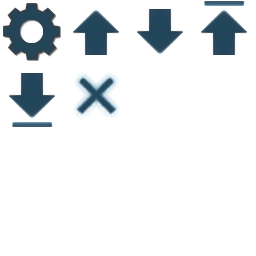
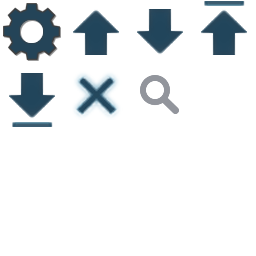
design fixes

Changed region(s): [[0.5312, 0.2812, 0.7188, 0.4688]]

diff --git a/web/view/theme/spg/assets/spg-theme.css b/web/view/theme/spg/assets/spg-theme.css
@@ -65,16 +65,19 @@ body.layout-full > article.themed {
 
 .spg-theme .menu-search {
     /* float: right; */
-    padding: 11px 16px;
-    margin: 4px 1px;
+    padding: 8px 16px 8px 24px;
+    margin: 7px 1px;
     border-radius: 8px;
     border: 1px inset;
     opacity: 0.7;
     transition: opacity 1s, max-width 1.4s ease-out;
     transition-delay: 0.8s;
-    max-width: 6.4em;
+    max-width: 3.2em;
     z-index: 99;
     position: relative;
+    background: url('img/icons/btn_search.png') no-repeat #FFF;
+    background-size: 24px;
+    background-position: 1px 4px;
 }
 
 .spg-theme .menu-search:focus,

diff --git a/web/view/theme/spg/spgviewtheme.class.php b/web/view/theme/spg/spgviewtheme.class.php
@@ -116,7 +116,7 @@ class SPGViewTheme extends AbstractViewTheme
             </a>
 
             <form action="order" style="display: inline-block; float: right;">
-                <input name="search" tabindex="1" type="text" class="menu-search themed" placeholder="Search TID, MID, Customer, Invoice ID..." />
+                <input name="search" tabindex="1" type="text" class="menu-search themed" placeholder="Search TID, MID, Name, Invoice ID..." />
             </form>
         </aside>
 
@@ -325,7 +325,7 @@ HEAD;
                         </li>
                         <li>
                             <a href="integration/request/" class="button<?php echo @$mc['integration-requests']; ?>"><div class="menu-icon menu-icon-list"></div>
-                                <span>Requests</span></a>
+                                <span>API Requests</span></a>
                         </li>
                     </ul>
                 </li>

diff --git a/web/merchant/view/.add.php b/web/merchant/view/.add.php
@@ -28,9 +28,9 @@ $Theme->printHTMLMenu('merchant-add');
                 <input type="hidden" name="action" value="add" />
                 <fieldset>
                     <div class="legend">New Merchant Fields</div>
-                    <table class="table-merchant-info themed striped-rows">
+                    <table class="table-merchant-info themed striped-rows" style="width: 100%;">
                         <tr class="row-<?php echo ($odd=!$odd)?'odd':'even';?>">
-                            <td class="name">Name</td>
+                            <td class="name" style="width: 20%;">Name</td>
                             <td><input type="text" name="name" value="" required /></td>
                         </tr>
                         <tr class="row-<?php echo ($odd=!$odd)?'odd':'even';?>">

diff --git a/web/user/view/.add.php b/web/user/view/.add.php
@@ -24,9 +24,9 @@ $Theme->printHTMLMenu('user-add');
             <form class="form-add-user themed" method="POST" action="user/add.php">
                 <input type="hidden" name="action" value="add" />
 
-                <fieldset style="display: inline-block;">
+                <fieldset>
                     <div class="legend">New User Fields</div>
-                    <table class="table-user-info themed">
+                    <table class="table-user-info themed striped-rows" style="width: 100%;">
                         <tr class="row-<?php echo ($odd=!$odd)?'odd':'even';?>">
                             <td class="name">Username</td>
                             <td><input type="text" name="username" value="" required /></td>

diff --git a/web/order/view/orderlistview.class.php b/web/order/view/orderlistview.class.php
@@ -46,7 +46,7 @@ class OrderListView extends AbstractListView {
 				oi.id = :exact
 				OR oi.uid = :exact
 
-				OR oi.amount = :exact
+				OR (oi.amount = :exact AND oi.amount > 0)
 				OR oi.invoice_number = :exact
 				OR oi.customer_id = :exact
 				OR oi.username = :exact
